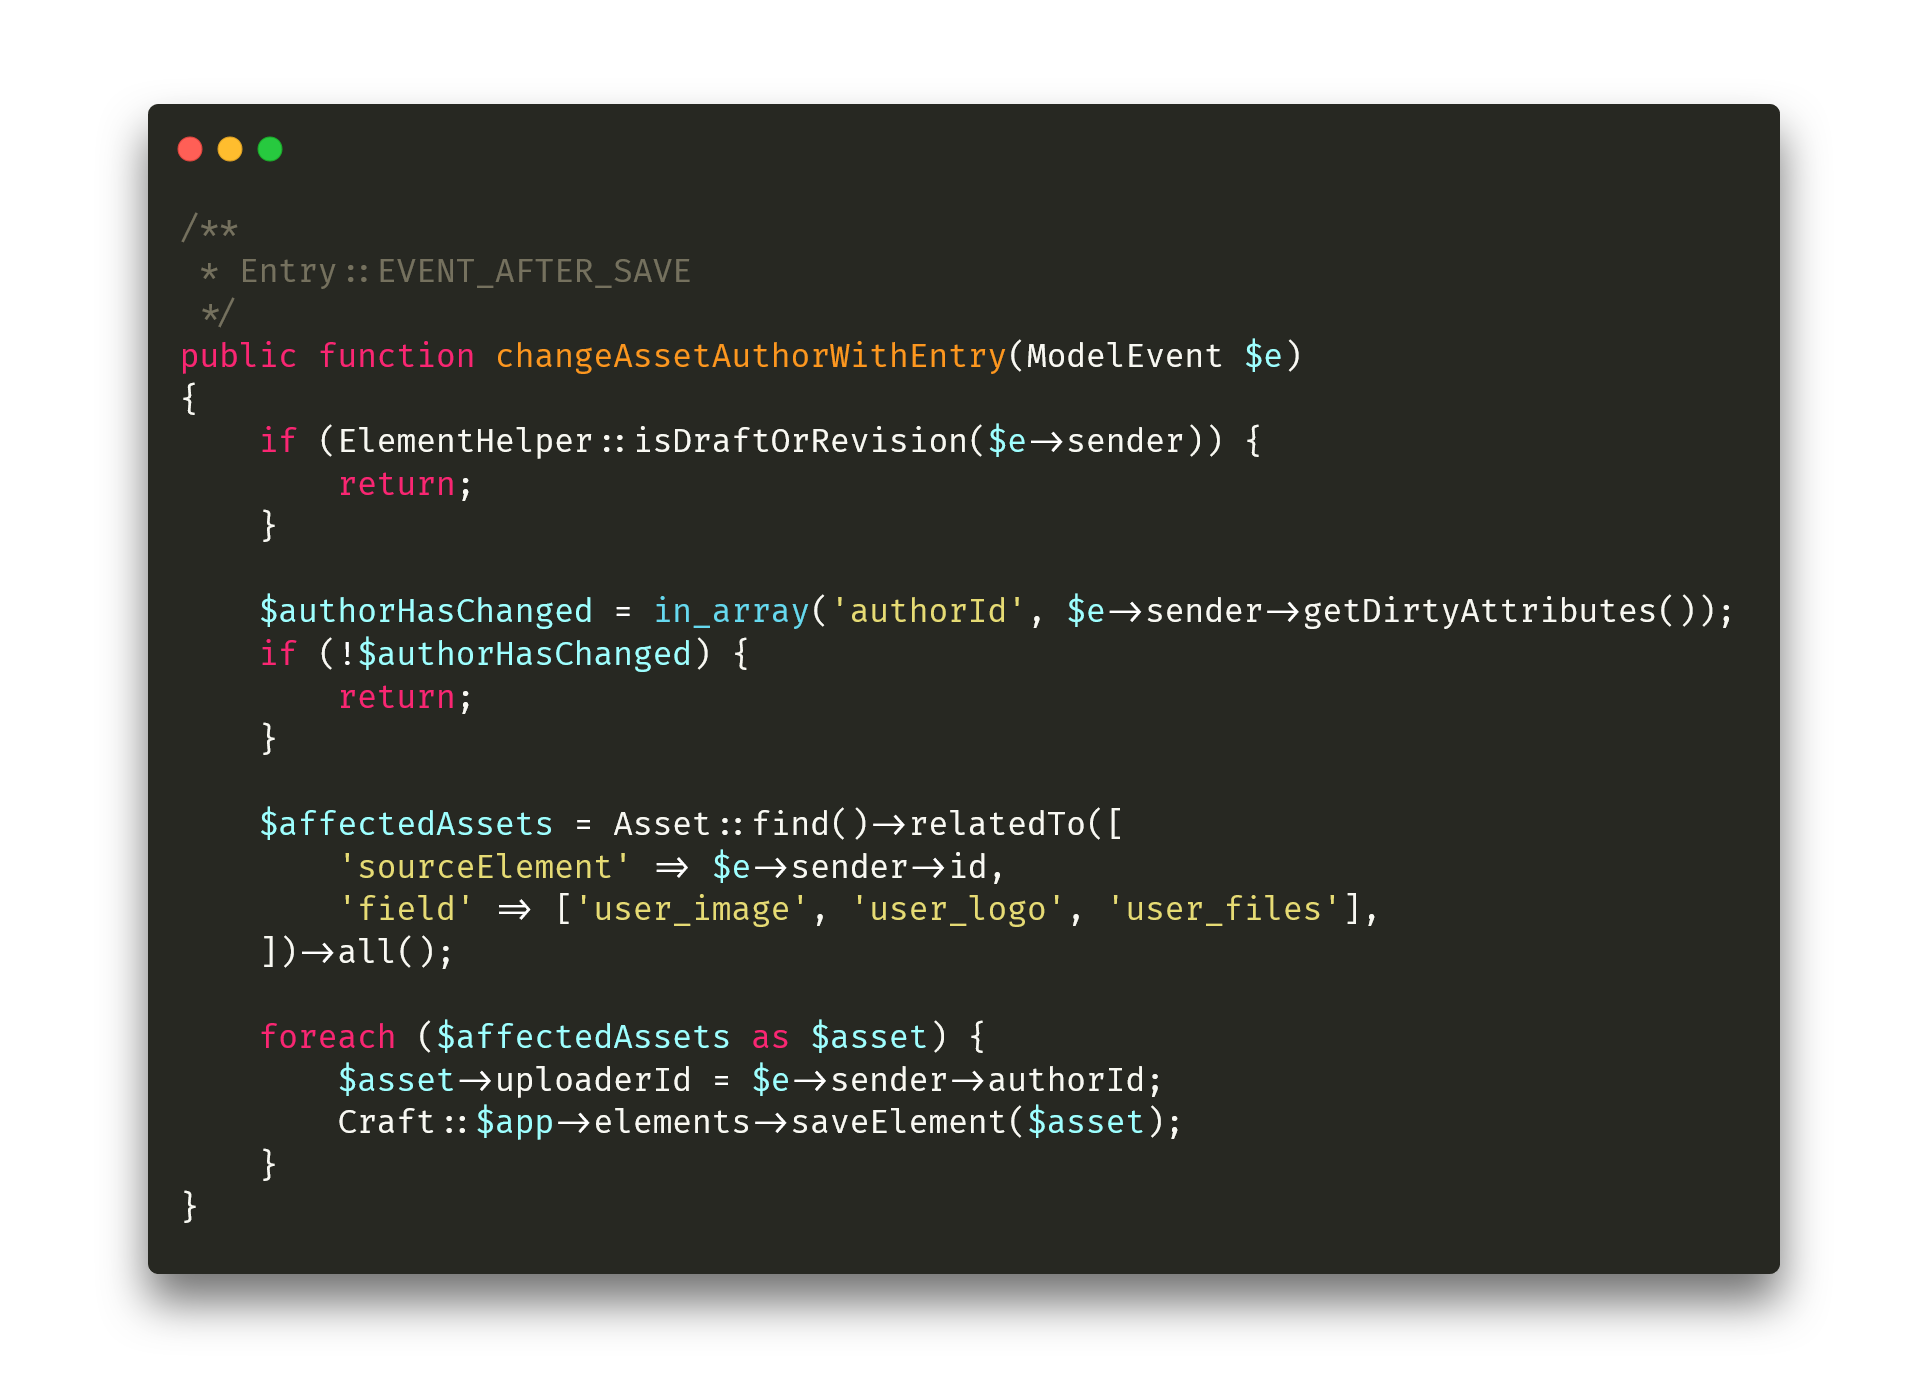
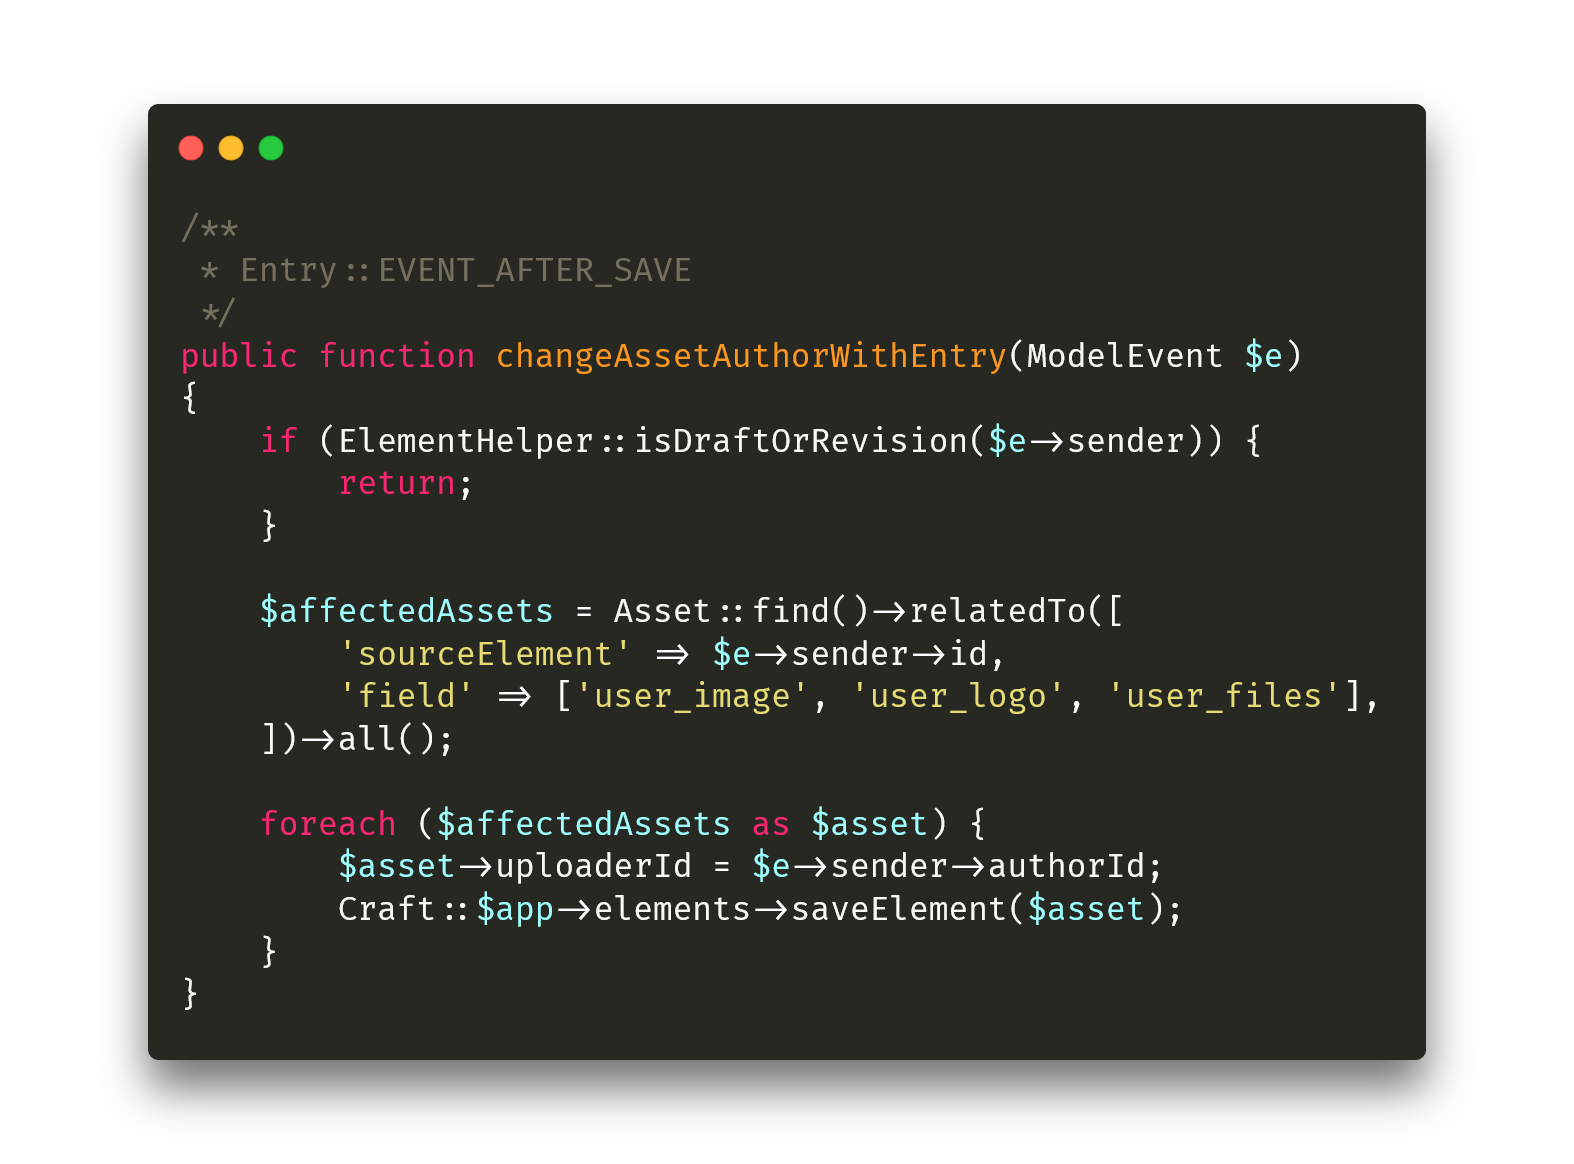
Simplify code example for 06-12

diff --git a/code-examples/06-12.php b/code-examples/06-12.php
@@ -9,11 +9,6 @@ public function changeAssetAuthorWithEntry(ModelEvent $e)
         return;
     }
 
-    $authorHasChanged = in_array('authorId', $e->sender->getDirtyAttributes());
-    if (!$authorHasChanged) {
-        return;
-    }
-
     $affectedAssets = Asset::find()->relatedTo([
         'sourceElement' => $e->sender->id,
         'field' => ['user_image', 'user_logo', 'user_files'],
